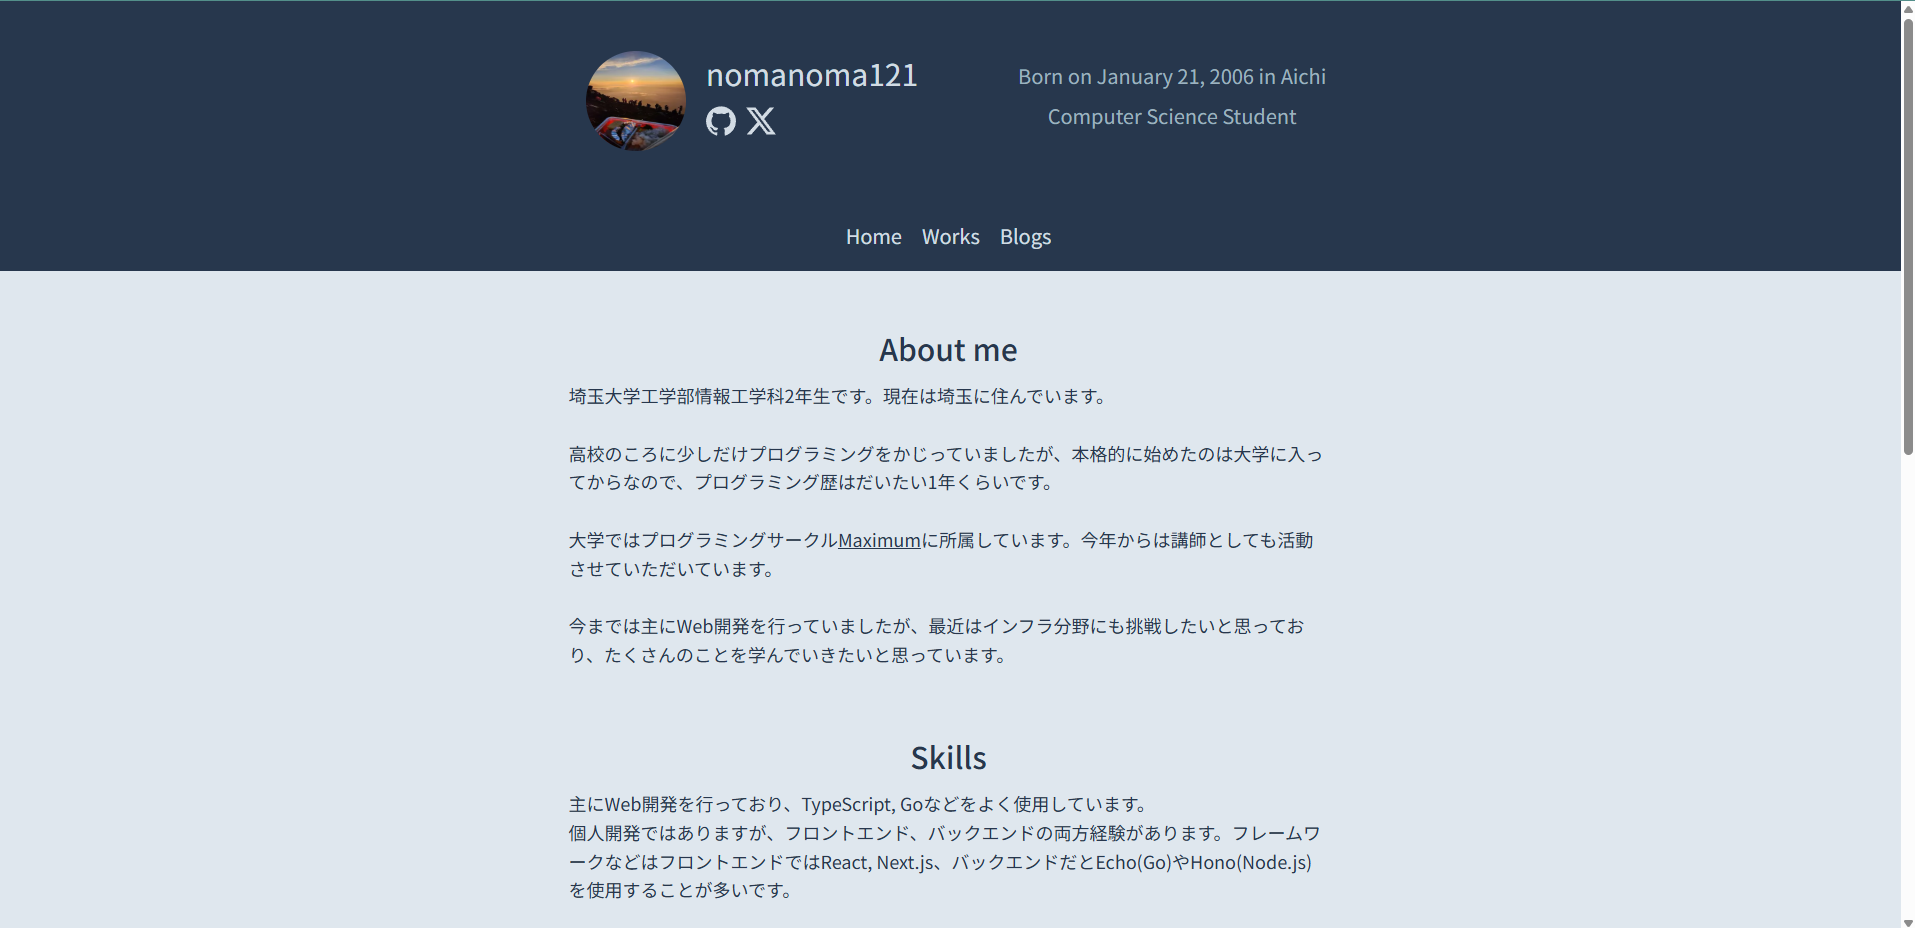
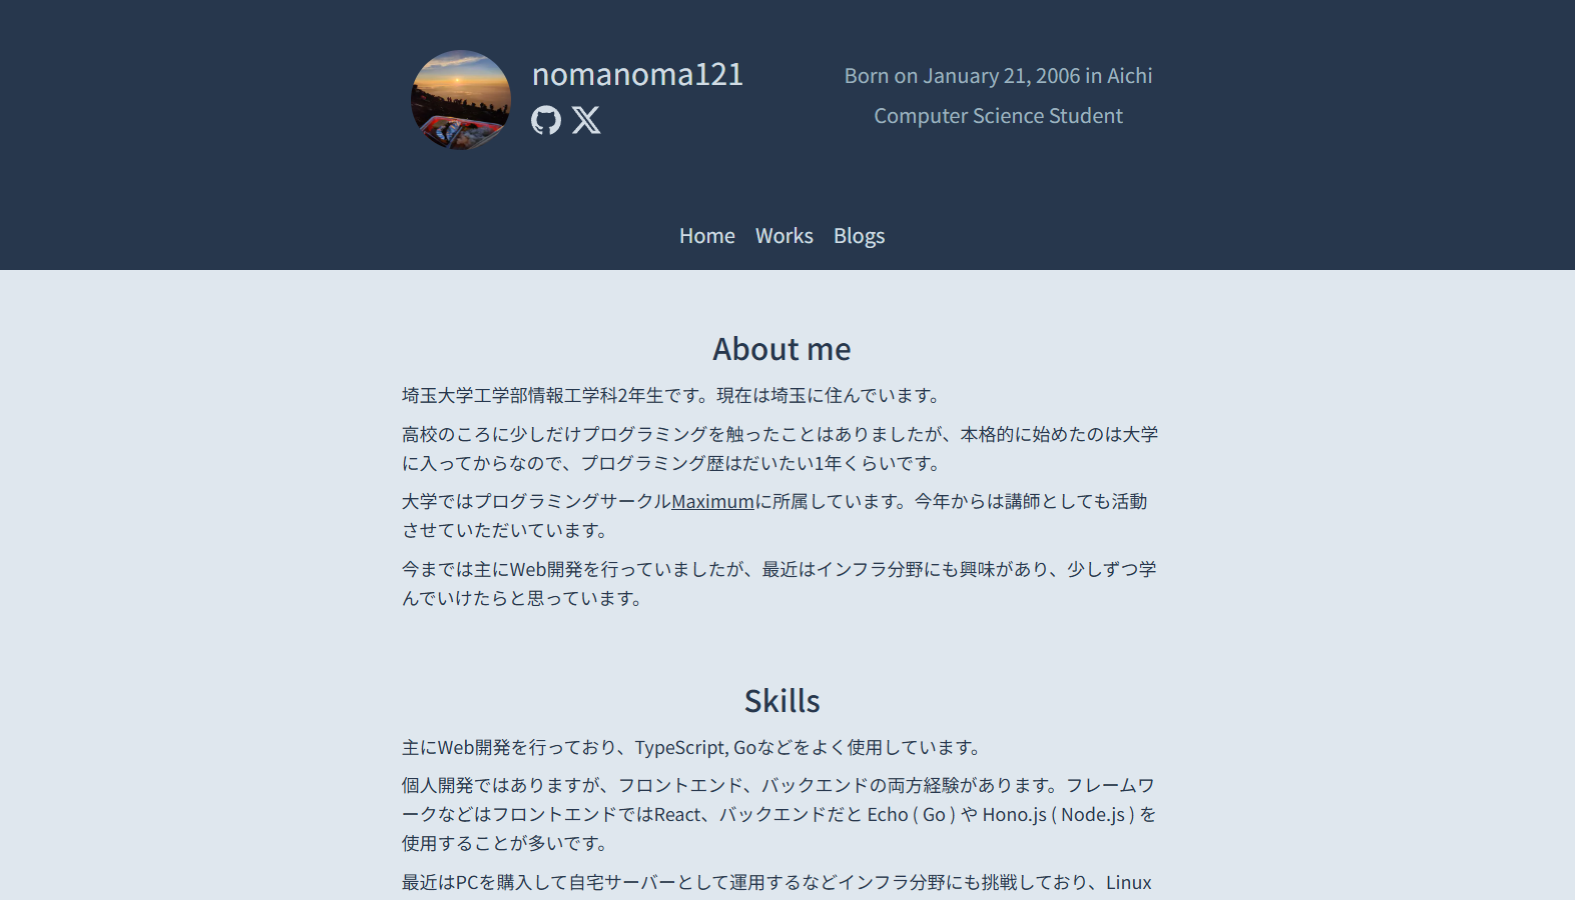
feat: レスポンシブ対応

diff --git a/src/components/card/work-card/work-card.tsx b/src/components/card/work-card/work-card.tsx
@@ -15,8 +15,8 @@ export const WorkCard = (content: WorkCardProps) => {
 		<Link href={content.url}>
 			<div
 				className={css({
-					width: "350px",
-					height: "280px",
+					width: { base: "100%", md: "350px" },
+					height: { base: "auto", md: "280px" },
 					borderRadius: "8px",
 					boxShadow: "0 2px 4px rgba(0, 0, 0, 0.2)",
 				})}
@@ -26,9 +26,12 @@ export const WorkCard = (content: WorkCardProps) => {
 					alt={content.title}
 					className={css({
 						width: "100%",
-						height: "200px",
+						minWidth: "100%",
+						height: { base: "auto", md: "200px" },
+						aspectRatio: "7/4",
 						borderRadius: "8px",
 						objectFit: "cover",
+						objectPosition: "center",
 					})}
 				/>
 				<h2

diff --git a/src/app/page.tsx b/src/app/page.tsx
@@ -96,6 +96,7 @@ const Home = () => {
 							gap: "20px",
 							flexWrap: "wrap",
 							mt: "10px",
+							width: { base: "100%", md: "720px" },
 						})}
 					>
 						{getRecentWorks().map((work) => (
@@ -139,7 +140,7 @@ const Home = () => {
 							gap: "20px",
 							flexWrap: "wrap",
 							justifyContent: "center", // TODO: これを消す
-							width: "720px",
+							maxWidth: "720px",
 							margin: "0 auto",
 							mt: "10px",
 						})}

diff --git a/src/app/blogs/page.tsx b/src/app/blogs/page.tsx
@@ -26,9 +26,9 @@ const Blogs = () => {
 					className={css({
 						display: "flex",
 						alignItems: "center",
-						justifyContent: "flex-start",
+						justifyContent: { base: "center", md: "flex-start" },
 						gap: "20px",
-						maxWidth: "1090px",
+						maxWidth: { md: "720px", xl: "1090px" },
 						flexWrap: "wrap",
 						margin: "0 auto",
 					})}

diff --git a/src/app/works/page.tsx b/src/app/works/page.tsx
@@ -36,9 +36,9 @@ const Works = () => {
 				<div
 					className={css({
 						display: "flex",
-						justifyContent: "flex-start",
+						justifyContent: { base: "center", md: "flex-start" },
 						flexWrap: "wrap",
-						maxWidth: "1090px",
+						maxWidth: { md: "720px", xl: "1090px" },
 						gap: "20px",
 						margin: "0 auto",
 					})}

diff --git a/src/components/card/blog-card/blog-card.tsx b/src/components/card/blog-card/blog-card.tsx
@@ -13,8 +13,8 @@ export const BlogCard = (content: CardProps) => {
 	return (
 		<div
 			className={css({
-				width: "350px",
-				height: "180px",
+				width: { base: "100%", md: "350px" },
+				maxHeight: "180px",
 				borderRadius: "8px",
 				padding: "16px",
 				backgroundColor: "background",

diff --git a/panda.config.ts b/panda.config.ts
@@ -21,6 +21,10 @@ export default defineConfig({
           accent: { value: "#526D82" },
         },
       },
+      breakpoints: {
+        xl: "1150px",
+        md: "780px",
+      }
     },
   },
 
